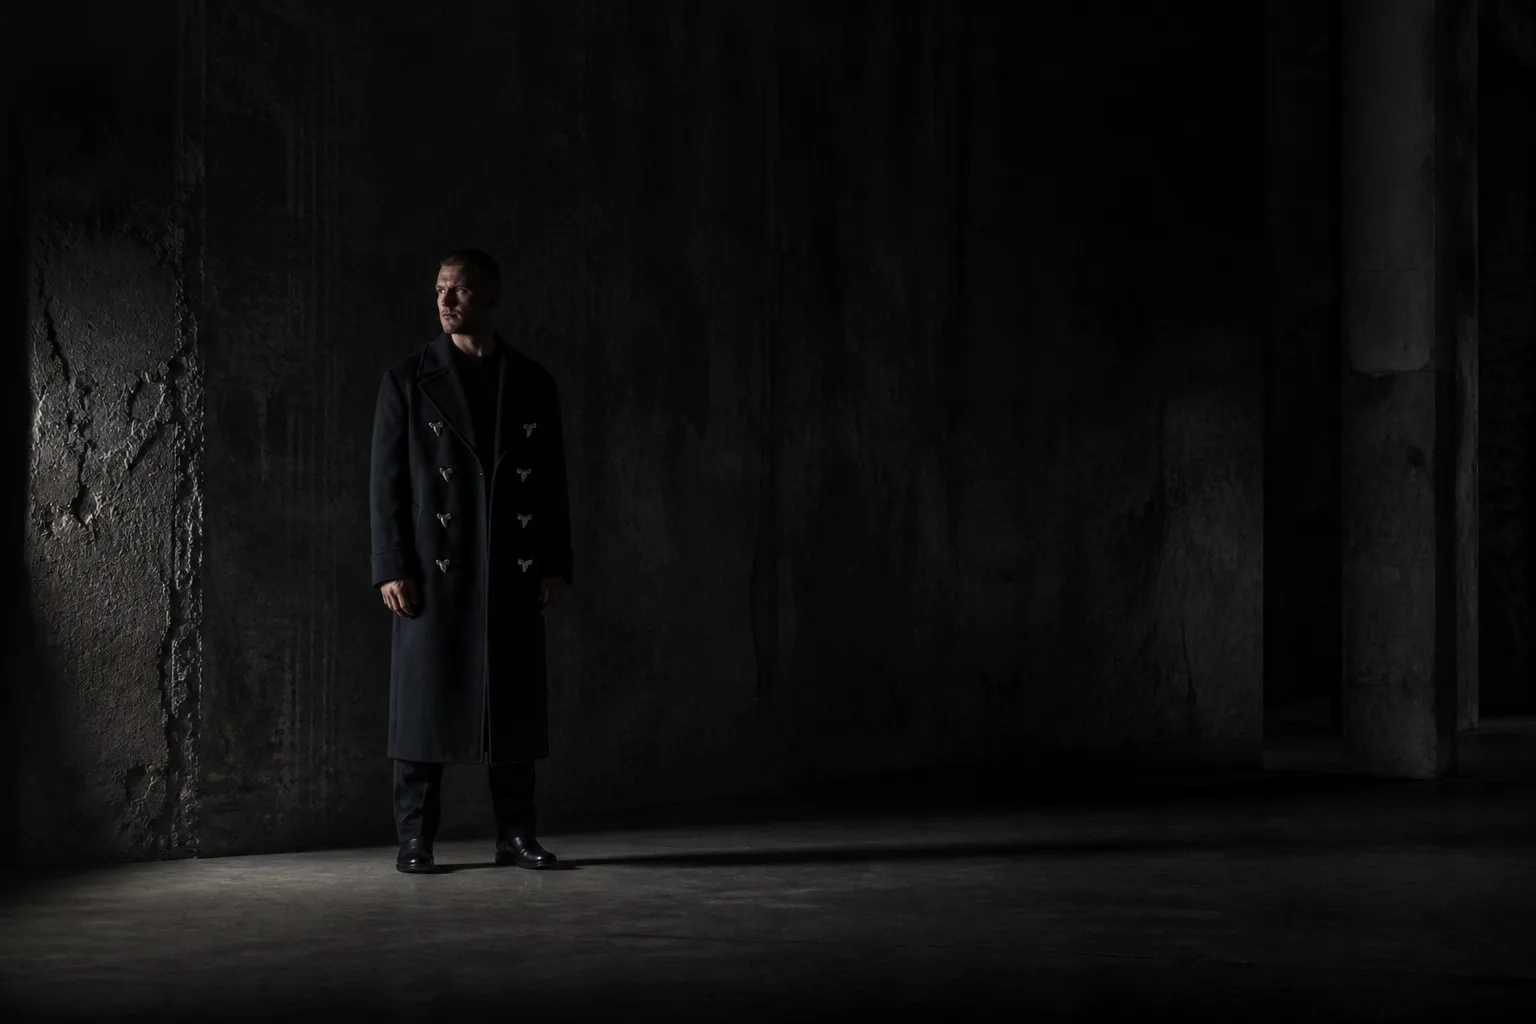
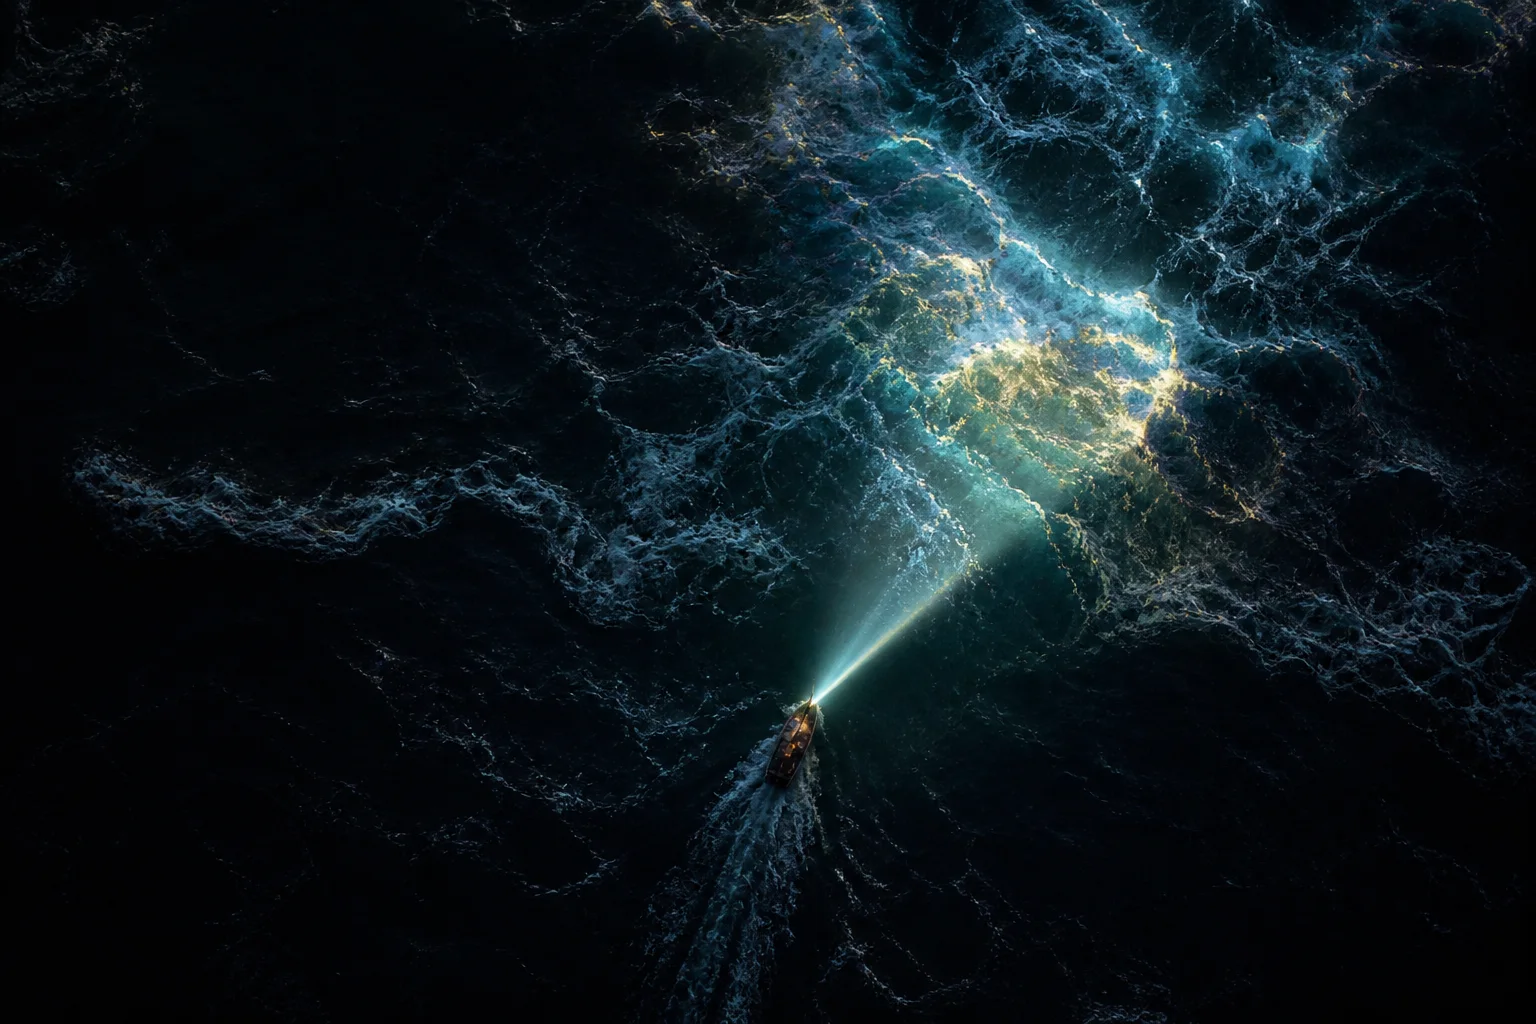
Regenerate MALUM hero as stormy sea scene, add dedicated OG share image

diff --git a/lib/collections.ts b/lib/collections.ts
@@ -31,6 +31,14 @@ export interface Collection {
    * its native aspect ratio) don't clip the subject out of frame.
    */
   heroImagePosition?: string;
+  /**
+   * Optional dedicated Open Graph / social-share image (ideally 1200x630
+   * with the logo and collection name already baked in, since most chat
+   * apps render only this image + the page title/description). Falls back
+   * to `heroImage` when not set, which keeps every other collection working
+   * unchanged.
+   */
+  ogImage?: CollectionImage;
   images: CollectionImage[];
   /**
    * Optional. When present, the collection gets a "Shop the Collection"
@@ -53,19 +61,30 @@ export const collections: Collection[] = [
       "The newest LEMARQUE collection. Scroll through every look, swipe to shop each piece.",
     longDescription:
       "MALUM is the newest chapter for LEMARQUE: gowns cut like armor, cashmere outerwear closed with shark-tooth hardware, and leather goods built to outlast trend cycles. Scroll through every look, swipe right to shop the piece, and tap through to its own page for the full story.",
-    // Wide/landscape mood shot (not a product photo) so the Collection Hub
-    // hero fills wide desktop viewports without an awkward crop the way a
+    // Wide/landscape mood shot (aerial view of a stormy sea at night, a
+    // ship's light cutting through the waves) so the Collection Hub hero
+    // fills wide desktop viewports without an awkward crop the way a
     // portrait garment photo would. Generated placeholder - swap for a real
-    // MALUM campaign still whenever one is shot.
+    // MALUM campaign still whenever one is shot. The focal point (glowing
+    // wave crest + light beam) sits near the horizontal center, so the
+    // default centered object-position crops cleanly even on ultra-wide
+    // screens.
     heroImage: {
       src: "/collections/malum/hero/malum-hero-wide.webp",
-      alt: "MALUM Collection",
+      alt: "MALUM Collection | Stormy sea at night",
       width: 1536,
       height: 1024,
     },
-    // Subject sits left-of-center in the source photo; bias the crop left
-    // so ultra-wide viewports don't push it out of frame.
-    heroImagePosition: "32% 45%",
+    // Same generated scene with the LEMARQUE mark and collection name
+    // burned in, sized to the 1200x630 Open Graph standard - chat apps
+    // (WhatsApp, Telegram, iMessage, ...) only ever show this flat image,
+    // never the live page, so the branding needs to live in the pixels.
+    ogImage: {
+      src: "/collections/malum/og/malum-og-image.webp",
+      alt: "MALUM Collection | LEMARQUE",
+      width: 1200,
+      height: 630,
+    },
     images: [
       {
         src: "/collections/malum/products/malum-siren-gown/01.webp",

diff --git a/app/collection/[slug]/page.tsx b/app/collection/[slug]/page.tsx
@@ -21,6 +21,8 @@ export async function generateMetadata({ params }: PageProps): Promise<Metadata>
     return { title: "Collection Not Found" };
   }
 
+  const shareImage = collection.ogImage ?? collection.heroImage;
+
   return {
     title: `${collection.name} | ${collection.season} ${collection.year}`,
     description: collection.description,
@@ -29,12 +31,18 @@ export async function generateMetadata({ params }: PageProps): Promise<Metadata>
       description: collection.description,
       images: [
         {
-          url: collection.heroImage.src,
-          width: 1200,
-          height: 630,
-          alt: collection.heroImage.alt,
+          url: shareImage.src,
+          width: shareImage.width,
+          height: shareImage.height,
+          alt: shareImage.alt,
         },
       ],
+    },
+    twitter: {
+      card: "summary_large_image",
+      title: `${collection.name} | LEMARQUE`,
+      description: collection.description,
+      images: [shareImage.src],
     },
   };
 }
